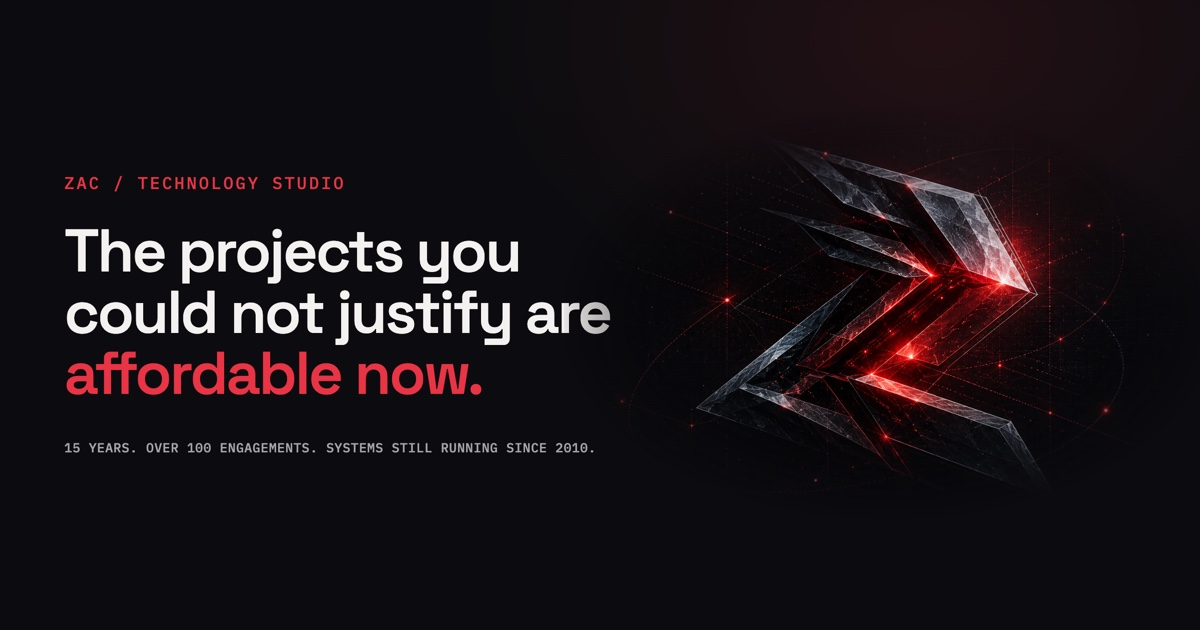
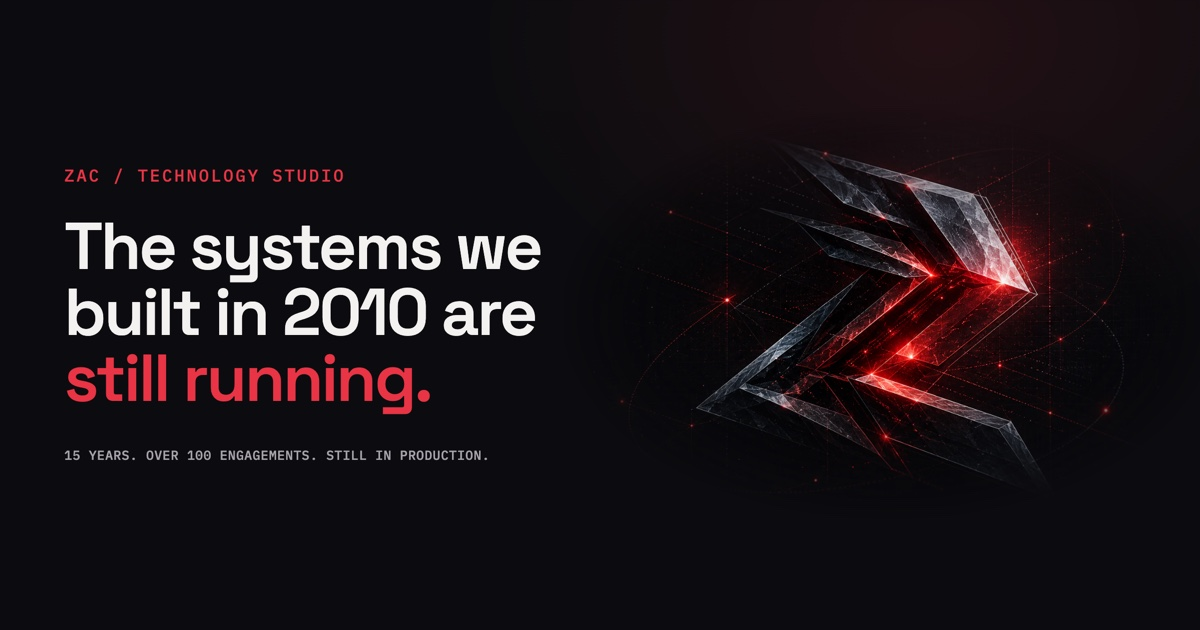
Reposition on durability, and prerender the site to static HTML
Positioning now leads on the one claim competitors cannot copy: systems built
in 2010 are still in production and their owners run them without us. Price
moves to Why now and Start here, which is where it belonged. Drew confirmed
handover is repeatable across numerous projects, so it is stated as a practice
in the Track record intro rather than buried in one case study.

Prerendering: Vite has no built-in API, so this follows the documented SSR
pattern. Client build, SSR build from src/entry-server.tsx into .prerender,
then scripts/prerender.mjs renders into dist/index.html and deletes the SSR
bundle so it never deploys. Served HTML goes from 4.6 kB of empty shell to
36 kB carrying 5,528 characters of copy. A noscript rule releases Motion's
inline entrance state so the copy is not merely present but visible without
scripting.

main.tsx picks hydrateRoot or createRoot from root.firstElementChild, not
firstChild: the <!--app-html--> placeholder is a comment node, so firstChild
is truthy in dev and sent it down the hydrate path against an empty
container, which threw a hydration mismatch.

Footer and Organization schema now state Ventura, California. Other team
locations stay off the site by decision, reasoning recorded in CLAUDE.md.

Changed region(s): [[0.0308, 0.3317, 0.5242, 0.6635], [0.0617, 0.6937, 0.4933, 0.754], [0.0308, 0.2714, 0.3083, 0.3016]]

diff --git a/index.html b/index.html
@@ -8,33 +8,33 @@
     <title>ZAC: A senior technology studio</title>
     <meta
       name="description"
-      content="A senior technology studio. 15 years, over 100 engagements, and systems still running since 2010. We build what your business runs on."
+      content="A senior technology studio. Systems we built in 2010 are still in production, run by the teams we handed them to. 15 years and over 100 engagements."
     />
     <link rel="canonical" href="https://zacforge.com/" />
     <meta name="theme-color" content="#0C0C0F" />
     <meta name="robots" content="index, follow, max-image-preview:large" />
 
     <meta property="og:type" content="website" />
-    <meta property="og:title" content="ZAC: The projects you could not justify are affordable now." />
+    <meta property="og:title" content="ZAC: The systems we built in 2010 are still running." />
     <meta
       property="og:description"
-      content="A senior technology studio. 15 years, over 100 engagements, and systems still running since 2010. We build what your business runs on."
+      content="A senior technology studio. Systems we built in 2010 are still in production, run by the teams we handed them to. 15 years and over 100 engagements."
     />
     <meta property="og:image" content="https://zacforge.com/og-image.jpg" />
     <meta property="og:image:width" content="1200" />
     <meta property="og:image:height" content="630" />
     <meta
       property="og:image:alt"
-      content="ZAC. The projects you could not justify are affordable now."
+      content="ZAC. The systems we built in 2010 are still running."
     />
     <meta property="og:site_name" content="ZAC Forge" />
     <meta property="og:url" content="https://zacforge.com/" />
 
     <meta name="twitter:card" content="summary_large_image" />
-    <meta name="twitter:title" content="ZAC: The projects you could not justify are affordable now." />
+    <meta name="twitter:title" content="ZAC: The systems we built in 2010 are still running." />
     <meta
       name="twitter:description"
-      content="A senior technology studio. 15 years, over 100 engagements, and systems still running since 2010. We build what your business runs on."
+      content="A senior technology studio. Systems we built in 2010 are still in production, run by the teams we handed them to. 15 years and over 100 engagements."
     />
     <meta name="twitter:image" content="https://zacforge.com/og-image.jpg" />
 
@@ -55,13 +55,19 @@
         "logo": "https://zacforge.com/brand/zacforge-lockup.webp",
         "image": "https://zacforge.com/og-image.jpg",
         "email": "hello@zacforge.com",
+        "address": {
+          "@type": "PostalAddress",
+          "addressLocality": "Ventura",
+          "addressRegion": "CA",
+          "addressCountry": "US"
+        },
         "founder": {
           "@type": "Person",
           "name": "Andrew Johnston",
           "jobTitle": "Founder",
           "worksFor": { "@type": "Organization", "name": "ZAC Forge" }
         },
-        "description": "A senior technology studio. 15 years, over 100 engagements, and systems still running since 2010. We build what your business runs on.",
+        "description": "A senior technology studio. Systems we built in 2010 are still in production, run by the teams we handed them to. 15 years and over 100 engagements.",
         "knowsAbout": [
           "Technology strategy",
           "Custom software development",
@@ -102,9 +108,21 @@
         }
       }
     </script>
+    <noscript>
+      <style>
+        /* The prerendered markup carries Motion's entrance state as inline
+           opacity:0. With scripting off nothing ever animates it back, so the
+           copy would be in the HTML but invisible. This only applies when
+           scripts do not run, so it cannot affect the normal path. */
+        #root [style*="opacity:0"] {
+          opacity: 1 !important;
+          transform: none !important;
+        }
+      </style>
+    </noscript>
   </head>
   <body>
-    <div id="root"></div>
+    <div id="root"><!--app-html--></div>
     <script type="module" src="/src/main.tsx"></script>
   </body>
 </html>

diff --git a/src/components/Hero.tsx b/src/components/Hero.tsx
@@ -28,22 +28,23 @@ export function Hero() {
             TECHNOLOGY STUDIO
           </motion.p>
           <motion.h1 className="h1" variants={item}>
-            The projects you could not justify are{" "}
-            <span className="text-forge">affordable now.</span>
+            The systems we built in 2010 are{" "}
+            <span className="text-forge">still running.</span>
           </motion.h1>
           <motion.p className="hero-body text-muted" variants={item}>
-            Every company has projects that were worth doing but never worth what they cost.
+            Most custom software does not survive the people who built it. The team moves on, the
+            documentation was never written, and in a few years someone is paying to rebuild it.
           </motion.p>
-          {/* The three examples are the emotional hook, so they are set apart
-              from the paragraph rather than running inside it. */}
+          {/* The promise, set apart from the paragraph. The headline is the
+              proof, so these are what the buyer actually gets rather than a
+              second recital of the case studies. */}
           <motion.ul className="hero-examples" variants={item}>
-            <li>The internal tool nobody funded.</li>
-            <li>The integration that stayed manual.</li>
-            <li>The reporting that still runs on a spreadsheet.</li>
+            <li>You own the code outright.</li>
+            <li>Your team runs it without us.</li>
+            <li>It is still working years after handover.</li>
           </motion.ul>
           <motion.p className="hero-body text-muted" variants={item}>
-            Those projects did not fail a value test. They failed a price test.{" "}
-            <span className="text-forge">The price changed.</span>
+            Most software is disposable. <span className="text-forge">Ours has not been.</span>
           </motion.p>
           <motion.div className="cta-row" variants={item}>
             <Magnetic>
@@ -58,7 +59,7 @@ export function Hero() {
             </a>
           </motion.div>
           <motion.p className="proof-line" variants={item}>
-            15 years. Over 100 engagements. Systems still running since 2010.
+            15 years. Over 100 engagements. Live since 2010 and still in production.
           </motion.p>
         </motion.div>
 

diff --git a/src/main.tsx b/src/main.tsx
@@ -1,5 +1,5 @@
 import { StrictMode } from "react";
-import { createRoot } from "react-dom/client";
+import { createRoot, hydrateRoot } from "react-dom/client";
 
 // Self-hosted fonts (weights per docs/IMPLEMENTATION.md in the handoff package).
 import "@fontsource/space-grotesk/500.css";
@@ -17,8 +17,25 @@ import "./styles/layout.css";
 import "./styles/interactive.css";
 import App from "./App.tsx";
 
-createRoot(document.getElementById("root")!).render(
+const root = document.getElementById("root")!;
+const tree = (
   <StrictMode>
     <App />
-  </StrictMode>,
+  </StrictMode>
 );
+
+// The production build prerenders this page to static HTML, so crawlers and
+// assistants that do not execute JavaScript still receive the copy. Hydration
+// adopts that markup instead of discarding it.
+//
+// The dev server serves the bare template, where #root contains only the
+// <!--app-html--> placeholder, and hydrateRoot against that would report the
+// entire tree as a mismatch. So the entry picks based on what is there.
+//
+// firstElementChild, not firstChild: the placeholder is a comment node, which
+// is a child, so firstChild is truthy in dev and sends it down the wrong path.
+if (root.firstElementChild) {
+  hydrateRoot(root, tree);
+} else {
+  createRoot(root).render(tree);
+}

diff --git a/tools/og-card.html b/tools/og-card.html
@@ -74,8 +74,8 @@
       .headline {
         font-family: var(--font-display);
         font-weight: 600;
-        font-size: 60px;
-        line-height: 1.02;
+        font-size: 66px;
+        line-height: 1.0;
         letter-spacing: -0.035em;
         color: var(--color-text);
         margin: 0 0 34px;
@@ -141,8 +141,8 @@
     <div class="og-card">
       <div>
         <p class="eyebrow">ZAC / Technology studio</p>
-        <h1 class="headline">The projects you could not justify are <span>affordable now.</span></h1>
-        <p class="proof">15 years. Over 100 engagements. Systems still running since 2010.</p>
+        <h1 class="headline">The systems we built in 2010 are <span>still running.</span></h1>
+        <p class="proof">15 years. Over 100 engagements. Still in production.</p>
       </div>
       <div class="art">
         <div class="glow"></div>

diff --git a/src/components/TrackRecord.tsx b/src/components/TrackRecord.tsx
@@ -82,6 +82,13 @@ export function TrackRecord() {
             over 15 years.{TIMELINE_FRAMING ? ` ${TIMELINE_FRAMING}` : ""} Same principal, same
             standards, new economics.
           </p>
+          {/* Confirmed by Drew on 2026-08-20 as repeatable across numerous
+              projects, which is what promotes it from a detail inside one case
+              study to the thing the section is about. Most vendors cannot say
+              this, because handover is where their revenue stops. */}
+          <p className="track-handover">
+            Every system below was handed to the people who own it. They run them without us.
+          </p>
         </Reveal>
 
         <Reveal className="case-list" stagger={0.08}>

diff --git a/src/styles/layout.css b/src/styles/layout.css
@@ -1171,6 +1171,17 @@ a:focus-visible .lockup-bloom {
 /* Two columns of two at desktop. Hairline cells on the shared border colour,
    matching the construction language the rest of the page uses, so the case
    studies read as a record rather than as marketing cards. */
+/* The handover claim. Given its own weight directly under the lede because it
+   is the most differentiated sentence in the section. */
+.track-handover {
+  margin: var(--space-5) 0 0;
+  padding-left: var(--space-4);
+  border-left: 2px solid var(--color-forge);
+  font-size: var(--text-lead);
+  line-height: 1.55;
+  font-weight: 600;
+  color: var(--color-text);
+}
 .case-list {
   margin-top: clamp(40px, 4.4vw, 64px);
   display: grid;

diff --git a/src/entry-server.tsx b/src/entry-server.tsx
@@ -1,0 +1,22 @@
+import { StrictMode } from "react";
+import { renderToString } from "react-dom/server";
+import { StaticRouter } from "react-router";
+import { AppRoutes } from "./AppRoutes.tsx";
+
+/**
+ * Prerender entry. Used only by scripts/prerender.mjs at build time, never
+ * shipped to the browser.
+ *
+ * Deliberately imports no CSS. The stylesheets are imported by main.tsx and
+ * Vite emits them as a real <link> in the client build, so pulling them in
+ * here would only produce a second, unused copy.
+ */
+export function render(url = "/") {
+  return renderToString(
+    <StrictMode>
+      <StaticRouter location={url}>
+        <AppRoutes />
+      </StaticRouter>
+    </StrictMode>,
+  );
+}

diff --git a/src/AppRoutes.tsx b/src/AppRoutes.tsx
@@ -1,0 +1,15 @@
+import { Routes, Route } from "react-router";
+import Home from "./pages/Home.tsx";
+
+/**
+ * Routes only, with no router around them. The client wraps these in a
+ * BrowserRouter and the prerender wraps them in a StaticRouter, so both
+ * entries render the identical tree and hydration has nothing to reconcile.
+ */
+export function AppRoutes() {
+  return (
+    <Routes>
+      <Route path="/" element={<Home />} />
+    </Routes>
+  );
+}

diff --git a/src/components/Footer.tsx b/src/components/Footer.tsx
@@ -16,7 +16,9 @@ export function Footer() {
           </a>
         </div>
 
-        <p className="footer-legal">© {year} ZAC Consulting LLC. All rights reserved.</p>
+        <p className="footer-legal">
+          Ventura, California. © {year} ZAC Consulting LLC. All rights reserved.
+        </p>
 
         <nav className="footer-nav" aria-label="Footer">
           <a href="#track-record">Track record</a>

diff --git a/src/App.tsx b/src/App.tsx
@@ -1,12 +1,10 @@
-import { BrowserRouter, Routes, Route } from "react-router";
-import Home from "./pages/Home.tsx";
+import { BrowserRouter } from "react-router";
+import { AppRoutes } from "./AppRoutes.tsx";
 
 export default function App() {
   return (
     <BrowserRouter>
-      <Routes>
-        <Route path="/" element={<Home />} />
-      </Routes>
+      <AppRoutes />
     </BrowserRouter>
   );
 }

diff --git a/.agents/product-marketing.md b/.agents/product-marketing.md
@@ -2,7 +2,7 @@
 
 *Last updated: 2026-08-20*
 
-> **Status: proposed, not adopted.** This captures the durability positioning argued in `docs/positioning-durability.md`. The live site still sells on price. Nothing here ships until Drew signs off. Sections marked GAP are unverified and must not be treated as fact.
+> **Status: adopted 2026-08-20 and live.** The site now leads on durability. Sections marked GAP are still unverified and must not be treated as fact.
 >
 > **Voice rules in `CLAUDE.md` are binding and override anything here.** Never the word "AI". No contractions, em dashes, semicolons, exclamation points, or emoji.
 
@@ -21,6 +21,8 @@
 - Two-Week Proof: 2 weeks, $5,000, fixed price.
 
 ## Target Audience
+
+**Location:** Ventura, California. The principal is US-based and that is the only location stated publicly. Other team members are elsewhere and the site does not say so, see the geography note in `CLAUDE.md`.
 
 **Target companies:** Mid-market operators with a system the business depends on. Auction houses, field and event operations, multi-site service businesses, institutions with public-facing booking or transaction flows. Not startups building a first product, and not enterprises with a large internal platform team.
 
@@ -81,6 +83,8 @@
 
 **Why customers choose us:** GAP. No win/loss data exists. This is inference from the case studies, not from buyers.
 
+**Handover is a service, not an anecdote.** Confirmed 2026-08-20: numerous projects have been handed over. Worth naming and productizing.
+
 ## Objections
 
 | Objection | Response |
@@ -90,7 +94,9 @@
 | You are more expensive than a freelancer. | Compared against rebuilding in three years, not against an hourly rate. |
 | We do not know what we need yet. | That is the Backlog Review, and it is credited in full against a build. |
 
-**Anti-persona:** Anyone who wants a disposable prototype, a marketing microsite, or the lowest bid. Anyone who wants to buy a vendor relationship rather than own the code. Startups pre-product-market-fit who should be building something throwaway on purpose.
+**Anti-persona:** Anyone who wants a disposable one-off that a non-engineer can now produce themselves with generative tooling. That tier of work has left the market and ZAC should not compete for it. Also: anyone shopping the lowest bid, anyone who wants to buy a vendor relationship rather than own the code, and pre-product-market-fit startups who should be building something throwaway on purpose.
+
+Drew's framing, 2026-08-20: serious buyers over "disposable one-offs that anyone can do with generative tools now." This is the clearest reason the price lead had to go. It aimed at the tier that no longer buys.
 
 ## Switching Dynamics
 

diff --git a/docs/positioning-durability.md b/docs/positioning-durability.md
@@ -1,6 +1,6 @@
 # Positioning memo: systems that outlive the engagement
 
-*2026-08-20. A recommendation, not a decision. Nothing on the site has changed.*
+*2026-08-20. **Adopted and shipped the same day.** The four open questions below were answered by Drew and the site now leads on durability.*
 
 > **Context:** the deployed site is a working copy. Misha is redesigning the brand and the site now, so this memo is intended as input to that work, not as a spec to execute against the current design.
 
@@ -111,9 +111,14 @@ The single highest-value thing available right now is four phone calls: Heritage
 
 ---
 
-## Open questions for you
+## Open questions, answered 2026-08-20
 
-1. Does "outlive the engagement" overclaim anywhere? I am relying on the case studies being accurate about what is still in production today.
-2. Is the handover story (moving a client off proprietary software and handing them the system) repeatable, or was Legacy Studios a one-off? If repeatable it becomes a service, not an anecdote.
-3. Do you want inbound narrowed? This trades volume for fit.
-4. Are you willing to revisit prerendering, given it now gates the argument rather than just the SEO score?
+1. **Does the durability claim overclaim?** No. Drew confirmed every case study is accurate and all of those systems are live in production today. The dated claims are safe to make.
+2. **Is handover repeatable?** Yes. "We have handed over numerous projects." This promoted it from a detail inside one case study to a line in the Track record intro: *"Every system below was handed to the people who own it. They run them without us."* It is a practice, not an anecdote, and most competitors cannot say it because handover is where their revenue stops.
+3. **Narrow inbound?** Yes. Drew wants serious buyers over "disposable one-offs that anyone can do with generative tools now." That is a sharper anti-persona than the memo proposed, and it is the strongest argument yet for dropping the price lead: the bottom of this market has fallen out to self-serve tooling, and "affordable now" pointed straight at it.
+4. **Prerendering?** Approved and shipped. The page is now prerendered to static HTML at build time, so the case studies and dates reach crawlers that do not execute JavaScript.
+
+## Still open
+
+- **Customer language.** No interviews yet. Four calls remains the highest-value unstarted work.
+- **Analytics.** Nothing is measured, so there is no way to tell whether this repositioning worked.
